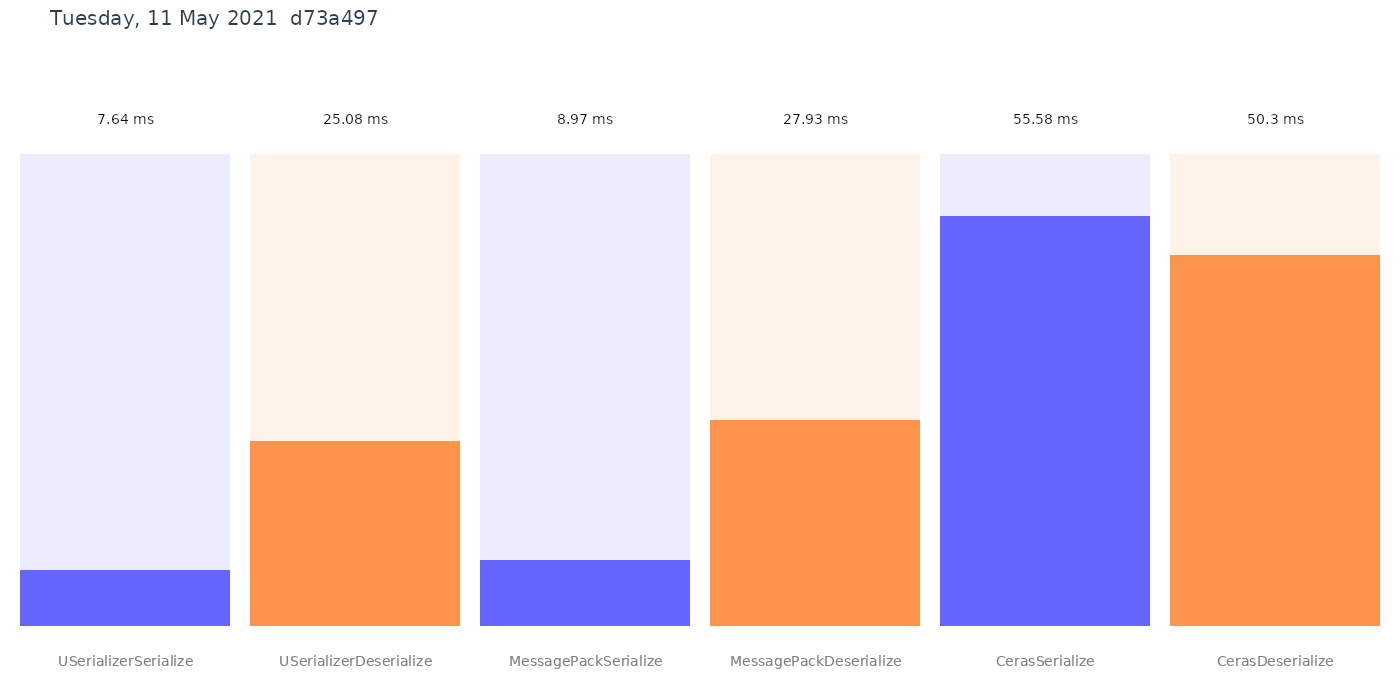
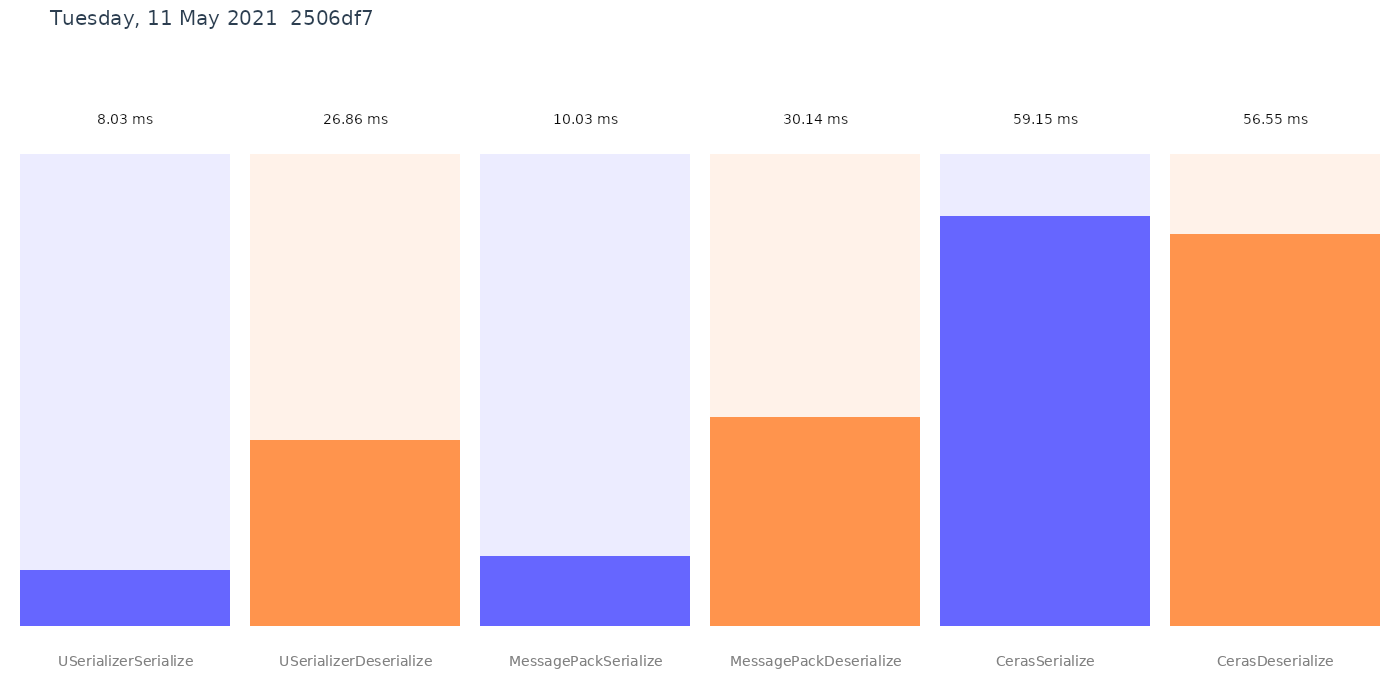
deploy: 2506df78aedc326888161808729dc6708bc46918

diff --git a/performance.md b/performance.md
@@ -12,9 +12,9 @@ WarmupCount=3
 ```
 |                 Method |      Mean |     Error |    StdDev |
 |----------------------- |----------:|----------:|----------:|
-|   USerializerSerialize |  7.636 ms |  1.486 ms | 0.0815 ms |
-| USerializerDeserialize | 25.083 ms |  6.972 ms | 0.3821 ms |
-|   MessagePackSerialize |  8.973 ms |  2.069 ms | 0.1134 ms |
-| MessagePackDeserialize | 27.932 ms |  3.456 ms | 0.1894 ms |
-|         CerasSerialize | 55.576 ms | 10.097 ms | 0.5534 ms |
-|       CerasDeserialize | 50.303 ms |  2.842 ms | 0.1558 ms |
+|   USerializerSerialize |  8.033 ms | 1.2486 ms | 0.0684 ms |
+| USerializerDeserialize | 26.857 ms | 2.8761 ms | 0.1577 ms |
+|   MessagePackSerialize | 10.034 ms | 8.8757 ms | 0.4865 ms |
+| MessagePackDeserialize | 30.144 ms | 1.4213 ms | 0.0779 ms |
+|         CerasSerialize | 59.150 ms | 1.1351 ms | 0.0622 ms |
+|       CerasDeserialize | 56.548 ms | 0.2836 ms | 0.0155 ms |
